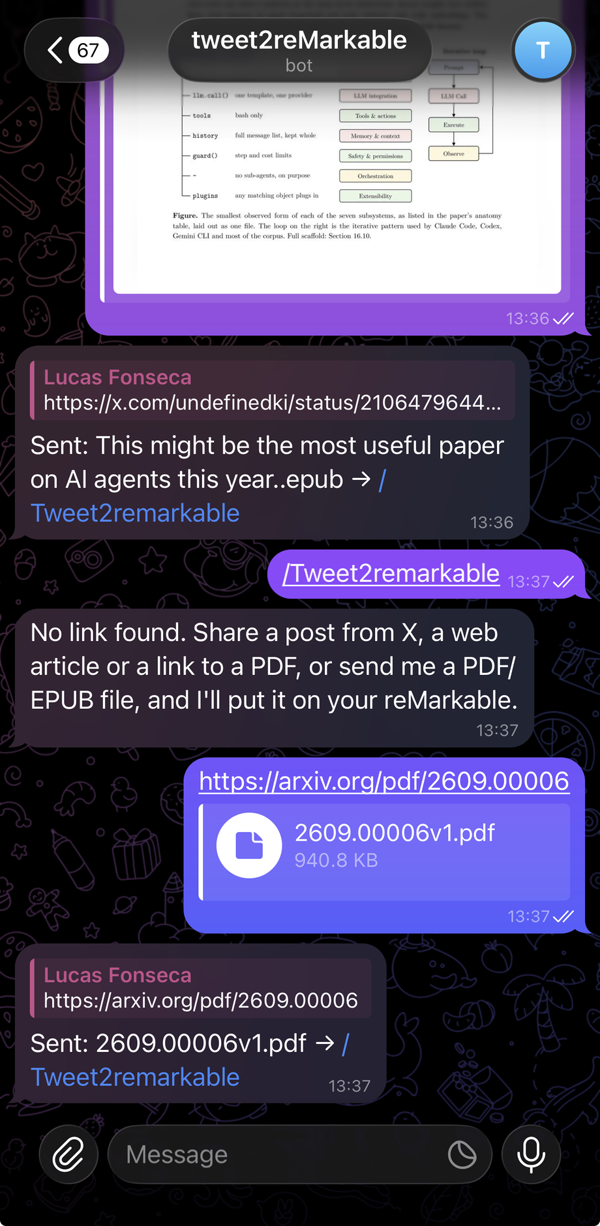
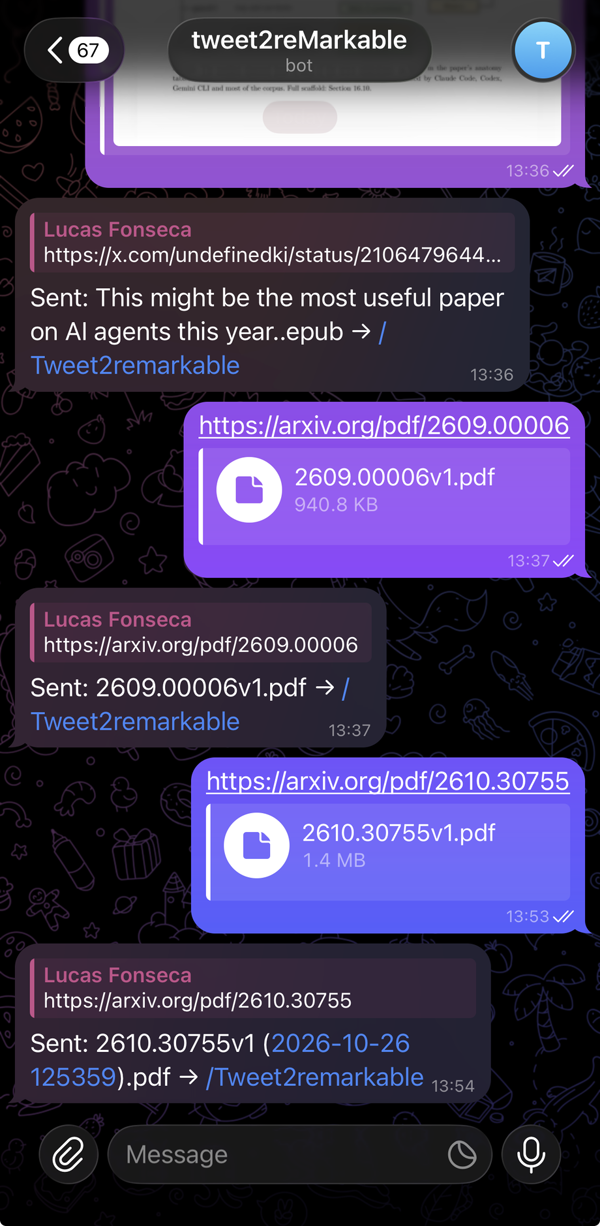
docs: replace the Telegram screenshot

diff --git a/README.md b/README.md
@@ -12,11 +12,11 @@ image for 24/7 hosting. Commands (`/folder`) and thread unrolling come next.
 
 <table>
   <tr>
-    <td width="32%"><img src="docs/images/telegram-chat.png" alt="Telegram chat: an X post and an arXiv link shared to the bot, each answered with 'Sent: … → /Tweet2remarkable'"></td>
+    <td width="32%"><img src="docs/images/telegram-chat.png" alt="Telegram chat: an X post and arXiv links shared to the bot, each answered with 'Sent: … → /Tweet2remarkable'; a paper sent twice gets a dated name instead of overwriting the first"></td>
     <td><img src="docs/images/remarkable-folder.png" alt="The reMarkable app's Tweet2remarkable folder with EPUBs of X posts and articles next to arXiv PDFs"></td>
   </tr>
   <tr>
-    <td align="center"><sub>Share to the bot; it answers per item</sub></td>
+    <td align="center"><sub>Share to the bot; it answers per item (a re-sent paper gets a dated copy, never an overwrite)</sub></td>
     <td align="center"><sub>Posts and articles arrive as EPUBs, papers as PDFs</sub></td>
   </tr>
 </table>
